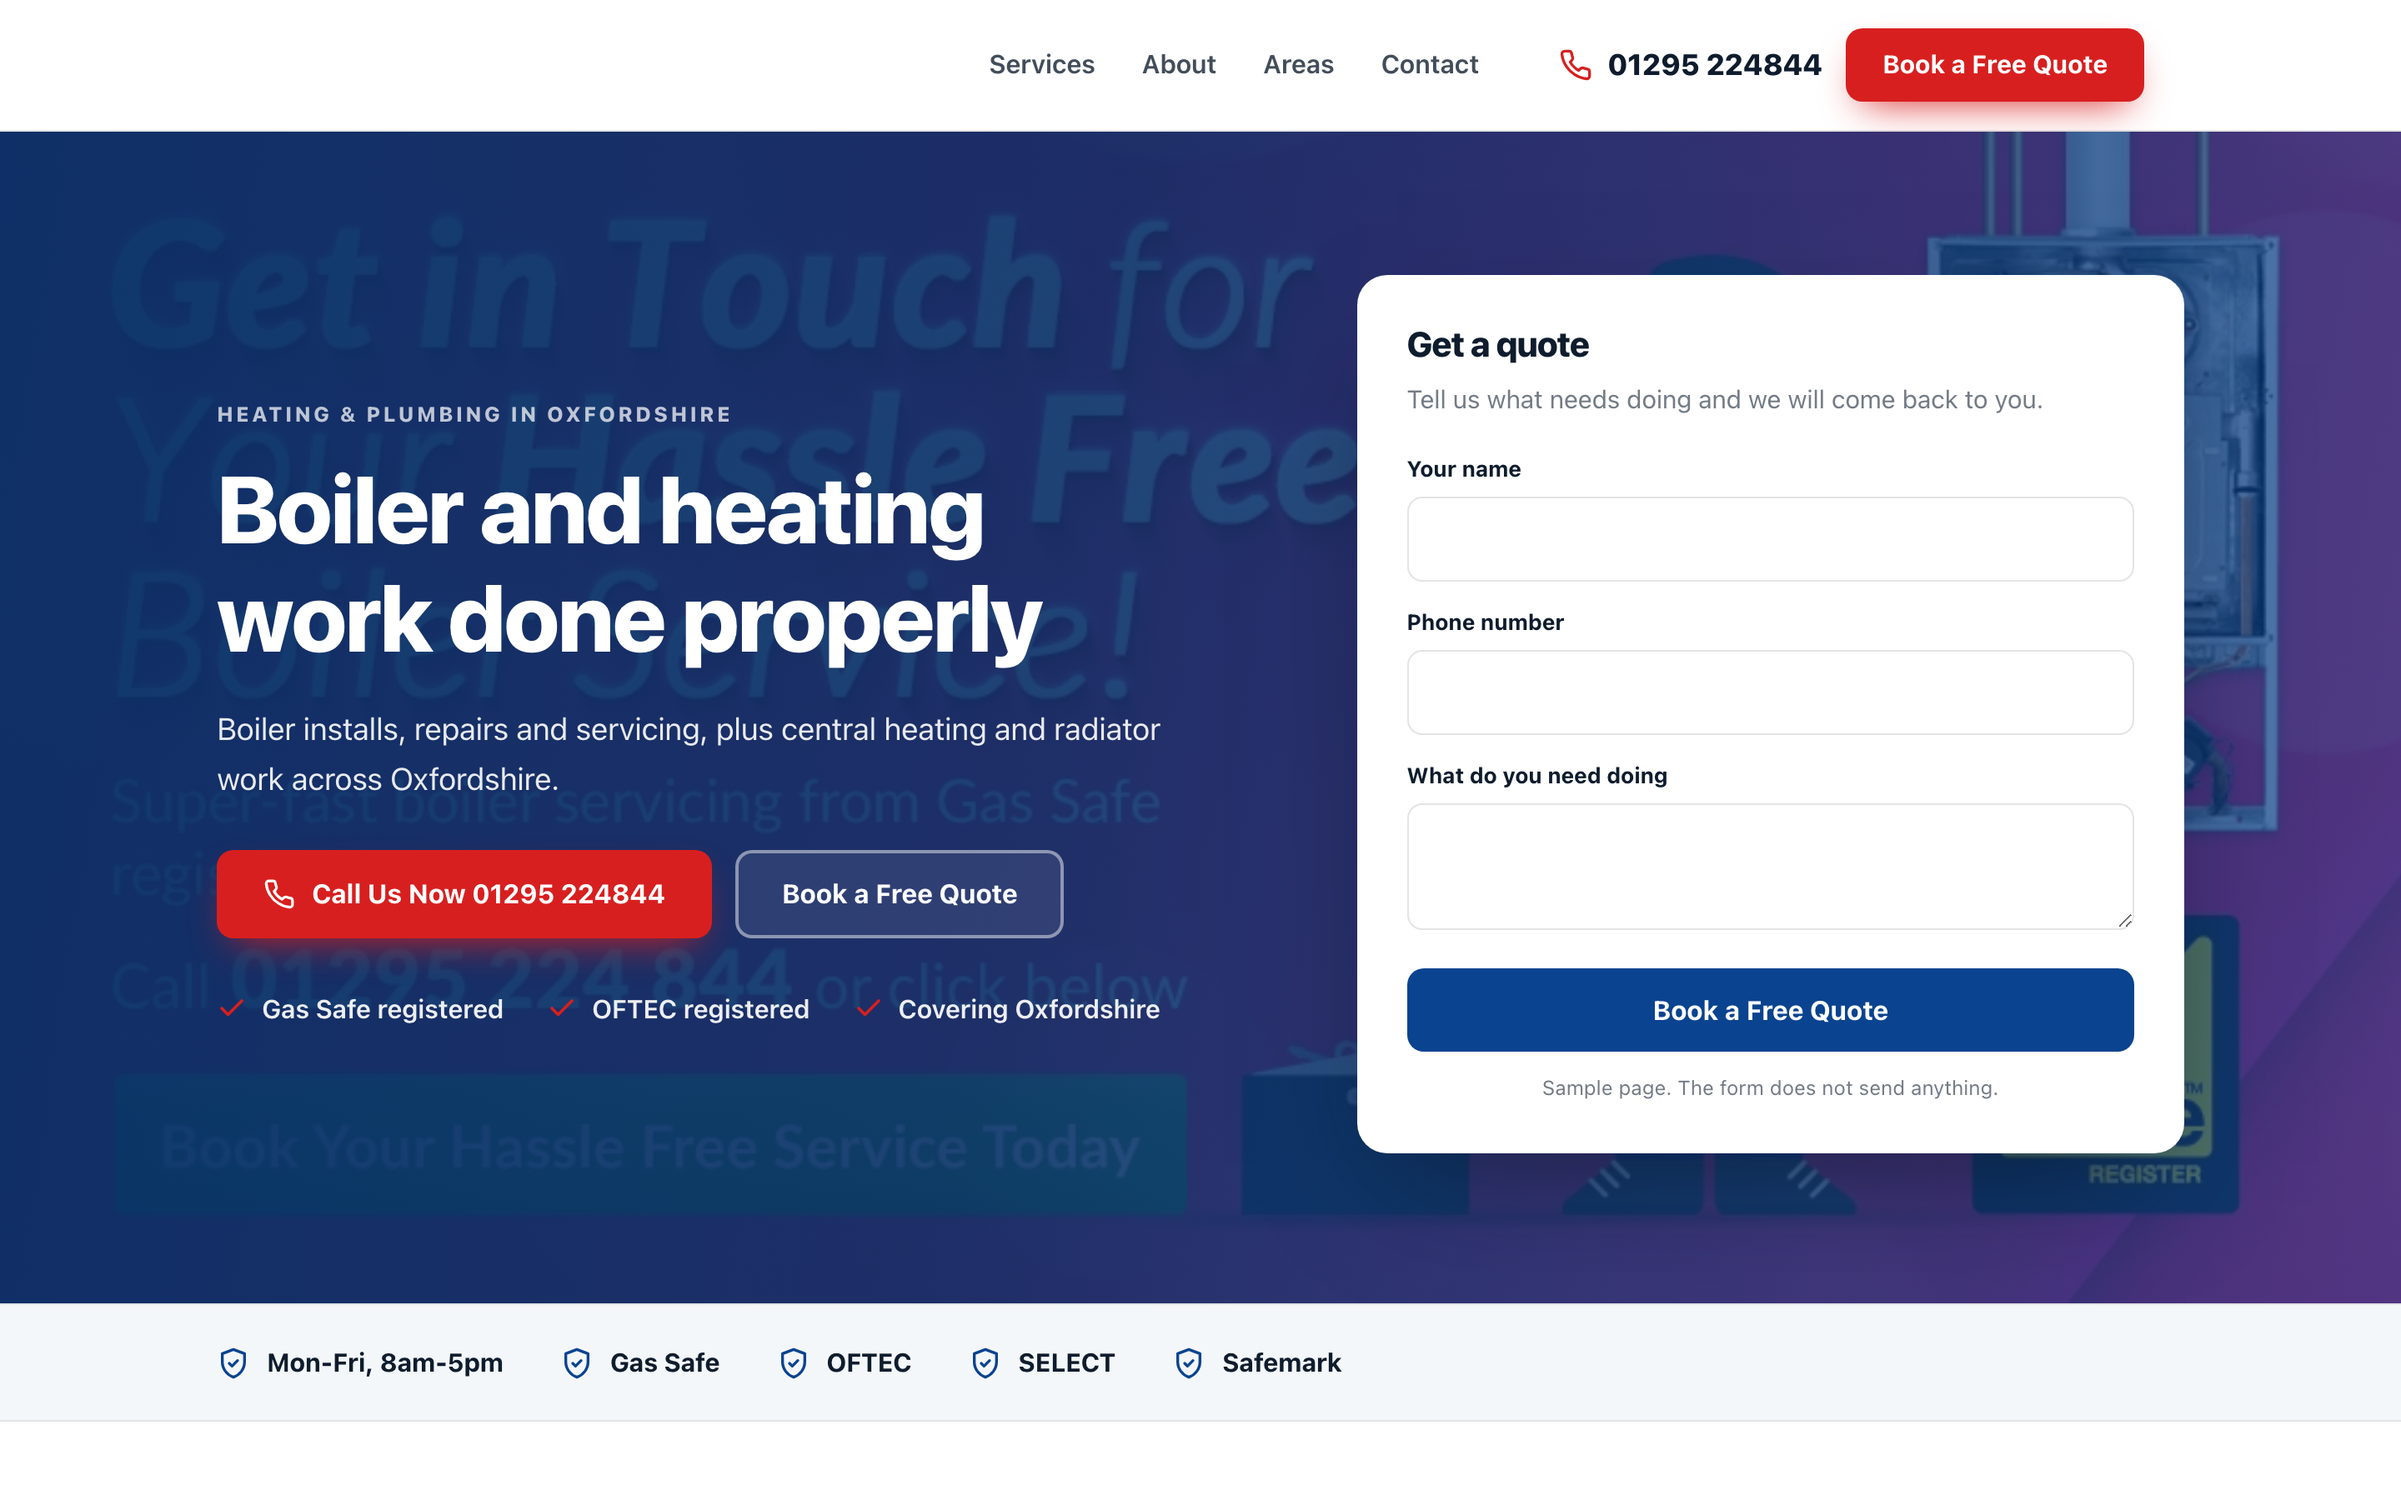
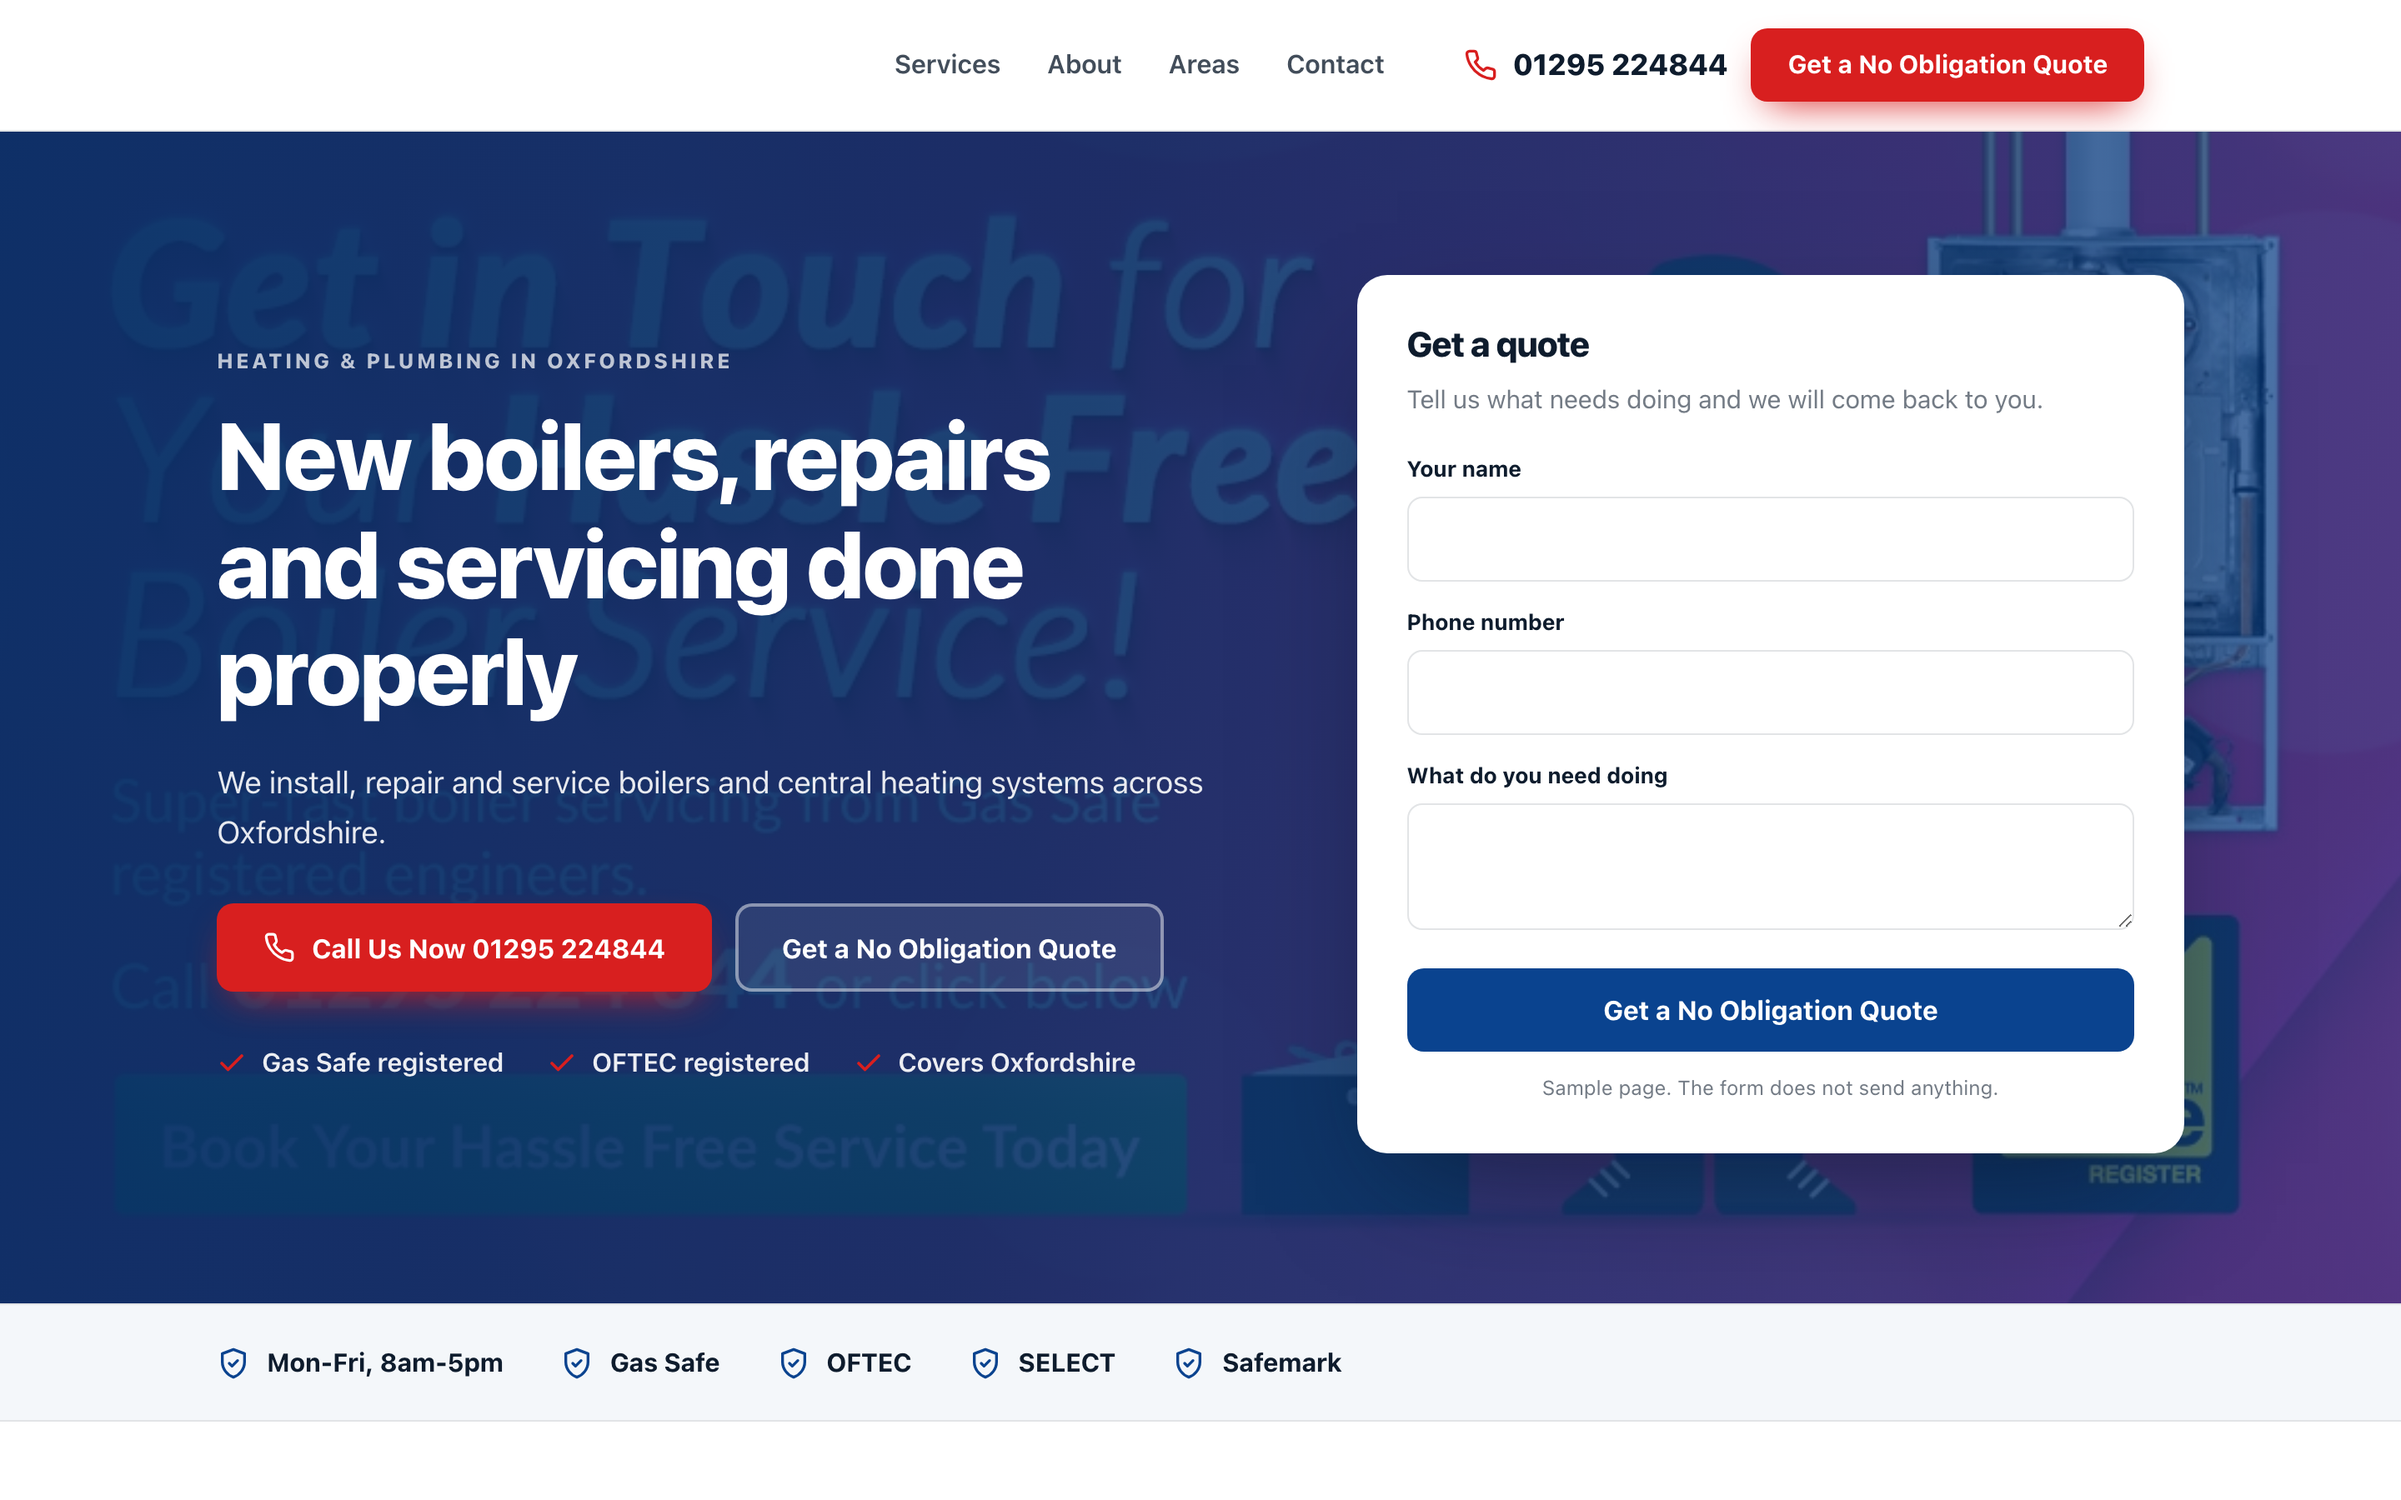
Sample homepage for M&N Heating & Plumbing

Changed region(s): [[0.0625, 0.2178, 0.5, 0.7156], [0.375, 0.0, 0.8438, 0.0933], [0.6562, 0.6533, 0.8125, 0.6844]]

diff --git a/docs/6dce0117a9/index.html b/docs/6dce0117a9/index.html
@@ -4,12 +4,12 @@
 <meta charset="utf-8">
 <meta name="viewport" content="width=device-width, initial-scale=1">
 <meta name="robots" content="noindex,nofollow">
-<title>Gas Safe sample homepage</title>
-<meta name="description" content="Boiler installs, repairs and servicing, plus central heating and radiator work across Oxfordshire.">
+<title>M&amp;N Heating &amp; Plumbing sample homepage</title>
+<meta name="description" content="We install, repair and service boilers and central heating systems across Oxfordshire.">
 <link rel="canonical" href="https://markygff.github.io/aso-mockups/6dce0117a9/">
 <meta property="og:type" content="website">
-<meta property="og:title" content="Gas Safe sample homepage">
-<meta property="og:description" content="Boiler installs, repairs and servicing, plus central heating and radiator work across Oxfordshire.">
+<meta property="og:title" content="M&amp;N Heating &amp; Plumbing sample homepage">
+<meta property="og:description" content="We install, repair and service boilers and central heating systems across Oxfordshire.">
 <meta property="og:url" content="https://markygff.github.io/aso-mockups/6dce0117a9/">
 <meta property="og:image" content="https://www.mnheating.co.uk/media/images/uploaded/banners/1/boiler-service-quote.358.jpg"><style>
 :root{
@@ -119,13 +119,13 @@ p{margin:0}
 <header class="header">
   <div class="wrap header-in">
     <div class="brand">
-<img src="https://www.mnheating.co.uk/media/images/uploaded/banners/11/gas-safe.500.png" alt="Gas Safe logo">    </div>
+<img src="https://www.mnheating.co.uk/media/images/uploaded/banners/11/gas-safe.500.png" alt="M&amp;N Heating &amp; Plumbing logo">    </div>
     <nav class="nav">
       <span>Services</span><span>About</span><span>Areas</span><span>Contact</span>
     </nav>
     <div class="header-cta">
       <span class="tel"><svg viewBox="0 0 24 24" fill="none" stroke="currentColor" stroke-width="2" stroke-linecap="round" stroke-linejoin="round" aria-hidden="true"><path d="M22 16.9v3a2 2 0 0 1-2.2 2 19.8 19.8 0 0 1-8.6-3.1 19.5 19.5 0 0 1-6-6 19.8 19.8 0 0 1-3.1-8.7A2 2 0 0 1 4.1 2h3a2 2 0 0 1 2 1.7c.1 1 .4 1.9.7 2.8a2 2 0 0 1-.5 2.1L8.1 9.9a16 16 0 0 0 6 6l1.3-1.2a2 2 0 0 1 2.1-.5c.9.3 1.8.6 2.8.7a2 2 0 0 1 1.7 2z"/></svg><span>01295 224844</span></span>
-      <span class="btn btn-accent">Book a Free Quote</span>
+      <span class="btn btn-accent">Get a No Obligation Quote</span>
     </div>
   </div>
 </header>
@@ -134,15 +134,15 @@ p{margin:0}
   <div class="hero-bg"><img src="https://www.mnheating.co.uk/media/images/uploaded/banners/1/boiler-service-quote.358.jpg" alt="Hassle Free Boiler Services" width="1600" height="900"></div>
   <div class="wrap hero-in">
     <div>
-      <p class="eyebrow">Heating &amp; Plumbing in Oxfordshire</p>
-      <h1>Boiler and heating work done properly</h1>
-      <p class="hero-sub">Boiler installs, repairs and servicing, plus central heating and radiator work across Oxfordshire.</p>
+      <p class="eyebrow">Heating &amp; plumbing in Oxfordshire</p>
+      <h1>New boilers, repairs and servicing done properly</h1>
+      <p class="hero-sub">We install, repair and service boilers and central heating systems across Oxfordshire.</p>
       <div class="hero-actions">
         <span class="btn btn-accent"><svg viewBox="0 0 24 24" fill="none" stroke="currentColor" stroke-width="2" stroke-linecap="round" stroke-linejoin="round" aria-hidden="true"><path d="M22 16.9v3a2 2 0 0 1-2.2 2 19.8 19.8 0 0 1-8.6-3.1 19.5 19.5 0 0 1-6-6 19.8 19.8 0 0 1-3.1-8.7A2 2 0 0 1 4.1 2h3a2 2 0 0 1 2 1.7c.1 1 .4 1.9.7 2.8a2 2 0 0 1-.5 2.1L8.1 9.9a16 16 0 0 0 6 6l1.3-1.2a2 2 0 0 1 2.1-.5c.9.3 1.8.6 2.8.7a2 2 0 0 1 1.7 2z"/></svg>Call Us Now 01295 224844</span>
-        <span class="btn btn-ghost">Book a Free Quote</span>
+        <span class="btn btn-ghost">Get a No Obligation Quote</span>
       </div>
       <ul class="hero-bullets">
-<li><svg viewBox="0 0 24 24" fill="none" stroke="currentColor" stroke-width="2.4" stroke-linecap="round" stroke-linejoin="round" aria-hidden="true"><path d="M20 6 9 17l-5-5"/></svg><span>Gas Safe registered</span></li><li><svg viewBox="0 0 24 24" fill="none" stroke="currentColor" stroke-width="2.4" stroke-linecap="round" stroke-linejoin="round" aria-hidden="true"><path d="M20 6 9 17l-5-5"/></svg><span>OFTEC registered</span></li><li><svg viewBox="0 0 24 24" fill="none" stroke="currentColor" stroke-width="2.4" stroke-linecap="round" stroke-linejoin="round" aria-hidden="true"><path d="M20 6 9 17l-5-5"/></svg><span>Covering Oxfordshire</span></li>      </ul>
+<li><svg viewBox="0 0 24 24" fill="none" stroke="currentColor" stroke-width="2.4" stroke-linecap="round" stroke-linejoin="round" aria-hidden="true"><path d="M20 6 9 17l-5-5"/></svg><span>Gas Safe registered</span></li><li><svg viewBox="0 0 24 24" fill="none" stroke="currentColor" stroke-width="2.4" stroke-linecap="round" stroke-linejoin="round" aria-hidden="true"><path d="M20 6 9 17l-5-5"/></svg><span>OFTEC registered</span></li><li><svg viewBox="0 0 24 24" fill="none" stroke="currentColor" stroke-width="2.4" stroke-linecap="round" stroke-linejoin="round" aria-hidden="true"><path d="M20 6 9 17l-5-5"/></svg><span>Covers Oxfordshire</span></li>      </ul>
     </div>
     <div class="quote-card">
       <h3>Get a quote</h3>
@@ -150,7 +150,7 @@ p{margin:0}
       <div class="field"><label>Your name</label><input type="text" disabled></div>
       <div class="field"><label>Phone number</label><input type="tel" disabled></div>
       <div class="field"><label>What do you need doing</label><textarea disabled></textarea></div>
-      <span class="btn btn-primary">Book a Free Quote</span>
+      <span class="btn btn-primary">Get a No Obligation Quote</span>
       <p class="sample-note">Sample page. The form does not send anything.</p>
     </div>
   </div>
@@ -170,29 +170,29 @@ p{margin:0}
   <div class="wrap">
     <div class="services-head">
       <p class="eyebrow">What we do</p>
-      <h2>Gas Safe, Oxfordshire</h2>
-      <p>Boiler installs, repairs and servicing, plus central heating and radiator work across Oxfordshire.</p>
+      <h2>M&amp;N Heating &amp; Plumbing, Oxfordshire</h2>
+      <p>We install, repair and service boilers and central heating systems across Oxfordshire.</p>
     </div>
     <div class="grid">
       <article class="card">
         <div class="icon"><svg viewBox="0 0 24 24" fill="none" stroke="currentColor" stroke-width="2" stroke-linecap="round" stroke-linejoin="round" aria-hidden="true"><path d="M14.7 6.3a4 4 0 0 0 5.3 5.3l-8 8a3 3 0 0 1-4.2-4.2z"/><path d="m14.7 6.3 3-3"/></svg></div>
-        <h3>Annual Boiler Service</h3>
-        <p>A yearly check to keep your boiler safe and running efficiently.</p>
+        <h3>New Boilers</h3>
+        <p>We fit new boilers built to last, no matter your current system.</p>
       </article>
       <article class="card">
         <div class="icon"><svg viewBox="0 0 24 24" fill="none" stroke="currentColor" stroke-width="2" stroke-linecap="round" stroke-linejoin="round" aria-hidden="true"><path d="M13 2 4 14h7l-1 8 9-12h-7z"/></svg></div>
         <h3>Boiler Repairs</h3>
-        <p>Fast, straight fixes when your boiler breaks down.</p>
+        <p>Boiler broken down? We&#39;ll get it fixed and your heating back on.</p>
       </article>
       <article class="card">
         <div class="icon"><svg viewBox="0 0 24 24" fill="none" stroke="currentColor" stroke-width="2" stroke-linecap="round" stroke-linejoin="round" aria-hidden="true"><path d="M3 10.5 12 3l9 7.5"/><path d="M5 9.5V21h14V9.5"/><path d="M10 21v-6h4v6"/></svg></div>
         <h3>Central Heating</h3>
-        <p>Full central heating work, from repairs to upgrades.</p>
+        <p>From single radiators to full systems, we handle central heating.</p>
       </article>
       <article class="card">
         <div class="icon"><svg viewBox="0 0 24 24" fill="none" stroke="currentColor" stroke-width="2" stroke-linecap="round" stroke-linejoin="round" aria-hidden="true"><path d="M4 20 15 9"/><path d="m14 4 6 6-3 3-6-6z"/><path d="m3 15 6 6"/></svg></div>
-        <h3>Power Flush</h3>
-        <p>Clears sludge and blockages so your radiators heat properly again.</p>
+        <h3>Annual Boiler Service</h3>
+        <p>Book your annual service to keep your boiler running safely.</p>
       </article>
     </div>
   </div>
@@ -200,7 +200,7 @@ p{margin:0}
 
 <footer class="footer">
   <div class="wrap footer-in">
-    <span>Sample built for Gas Safe from your public website. Not live. Tell us and we delete it.</span>
+    <span>Sample built for M&amp;N Heating &amp; Plumbing from your public website. Not live. Tell us and we delete it.</span>
     <span>mnheating.co.uk</span>
   </div>
 </footer>
